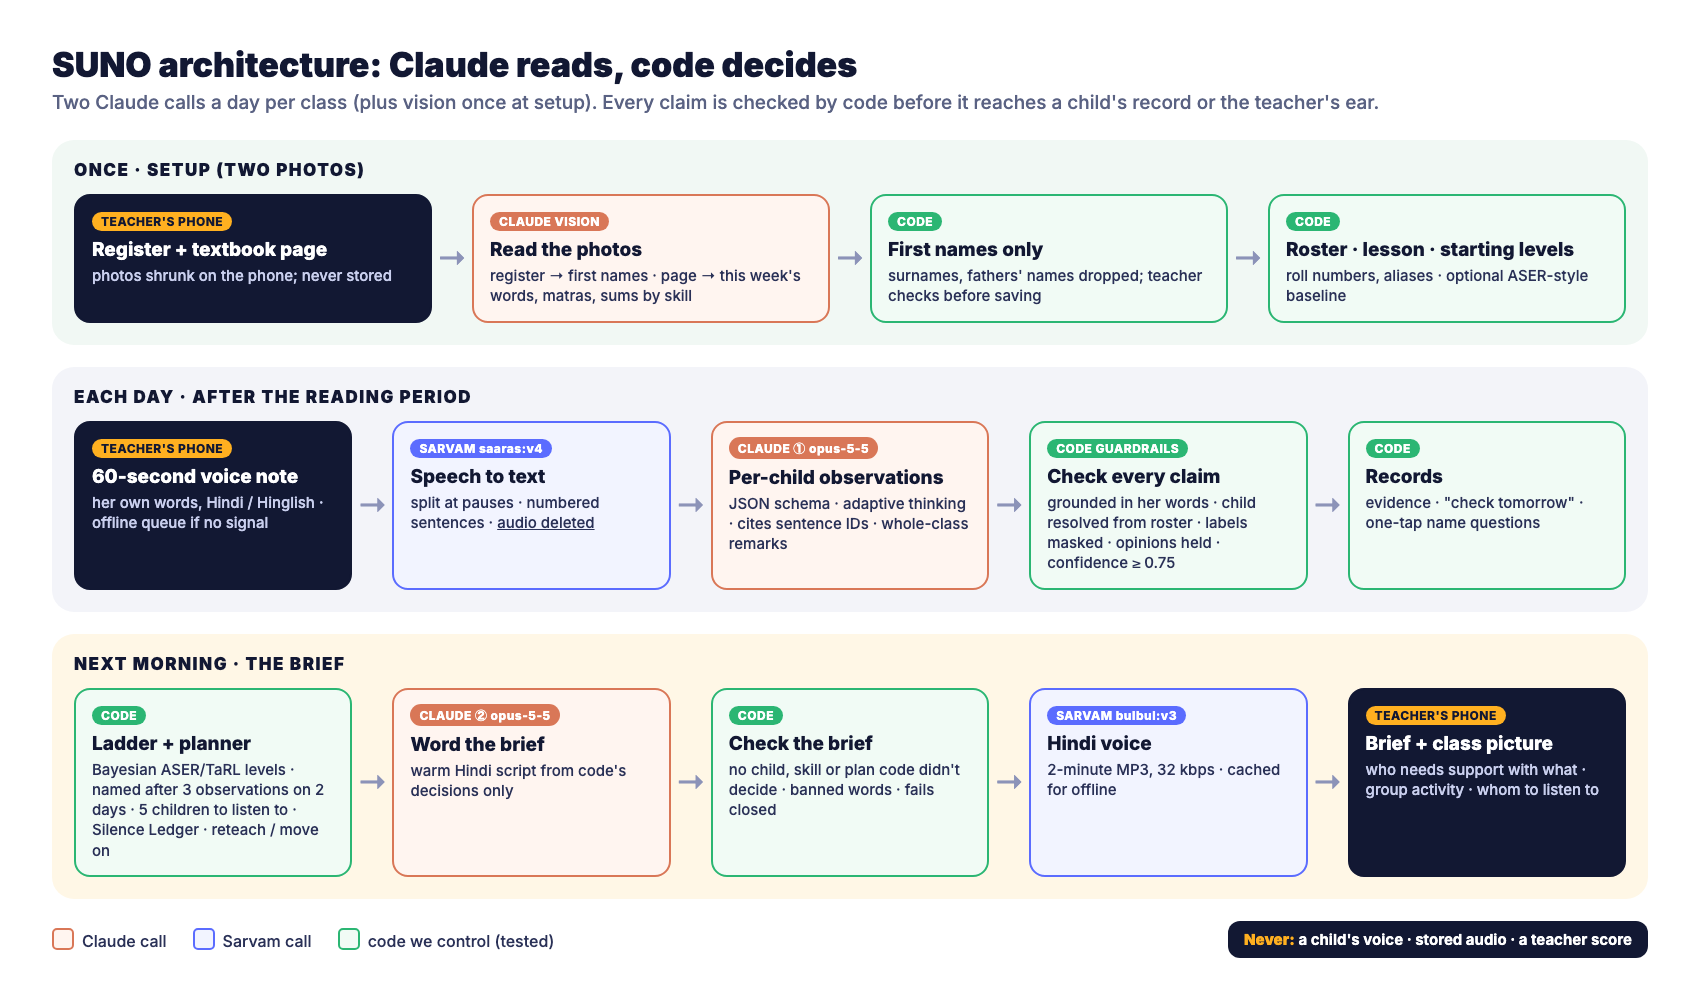
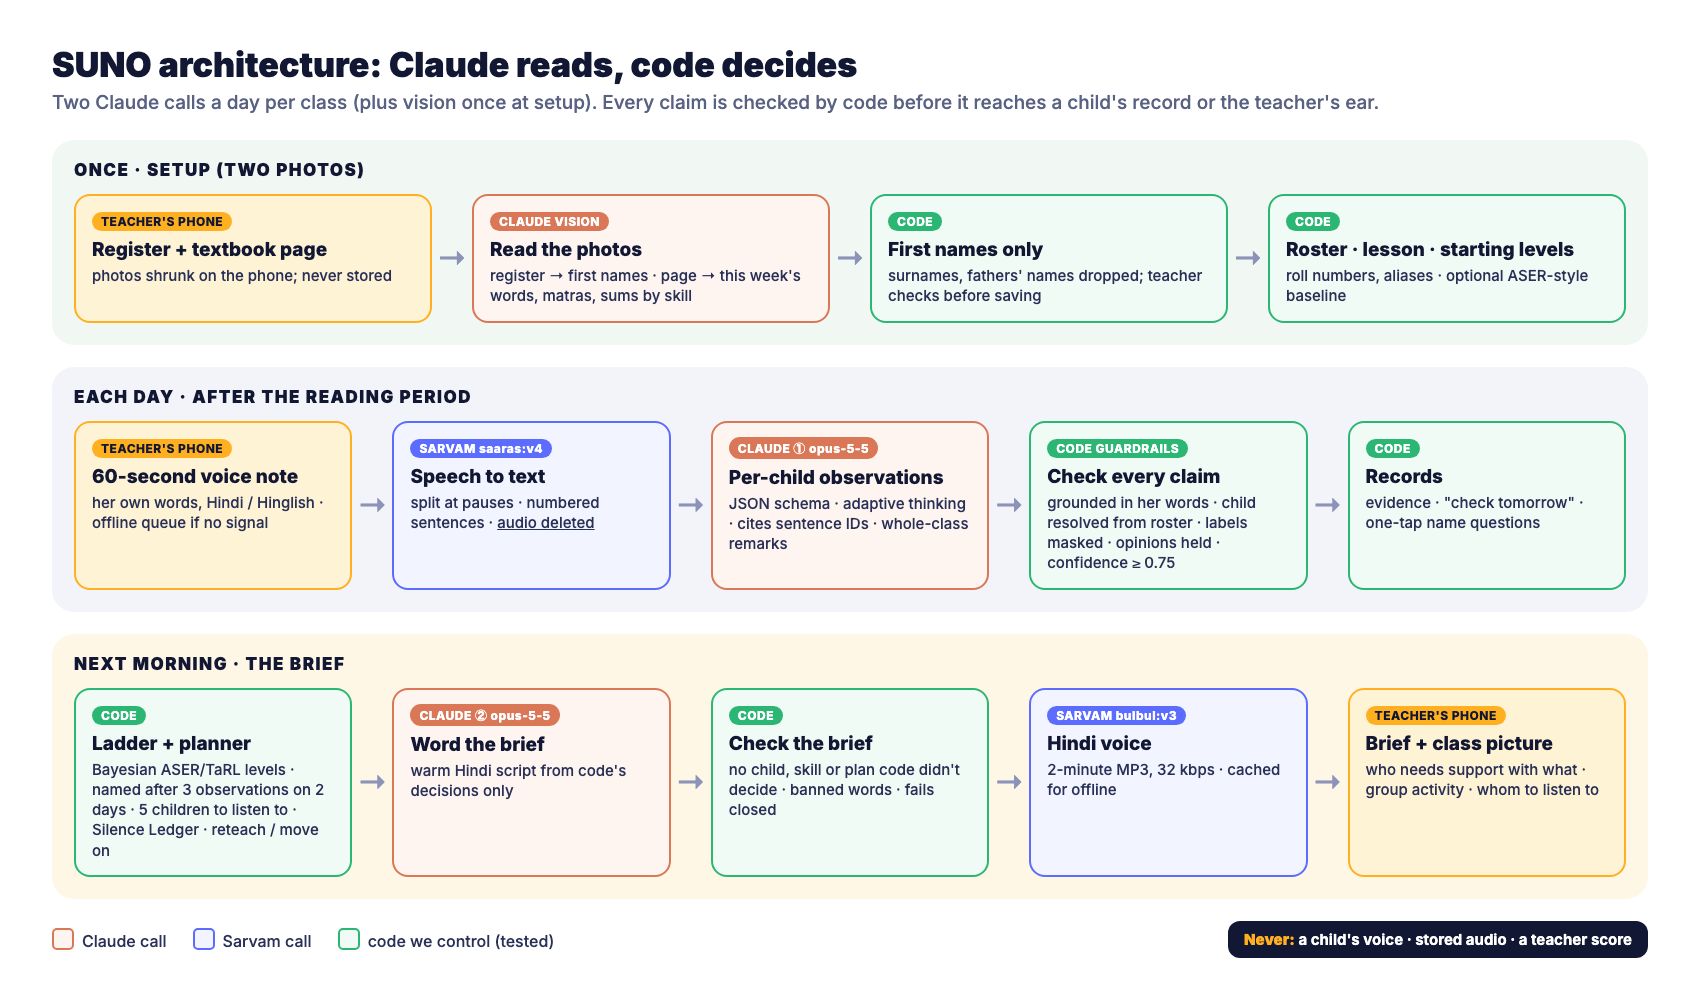
Architecture diagrams: light teacher's-phone boxes instead of black

Changed region(s): [[0.7794, 0.7005, 0.9665, 0.9137], [0.0312, 0.1827, 0.2806, 0.335], [0.0312, 0.4264, 0.2182, 0.6091]]

diff --git a/README.md b/README.md
@@ -94,7 +94,7 @@ flowchart TB
   classDef claude fill:#FFF5F0,stroke:#D97757,stroke-width:2px,color:#121833;
   classDef sarvam fill:#F2F4FF,stroke:#5B6CFF,stroke-width:2px,color:#121833;
   classDef code fill:#F1FBF5,stroke:#2BB673,stroke-width:2px,color:#121833;
-  classDef phone fill:#121833,stroke:#FFB020,stroke-width:2px,color:#ffffff;
+  classDef phone fill:#FFF3D6,stroke:#FFB020,stroke-width:2px,color:#121833;
   class V,C1,C2 claude
   class STT,TTS sarvam
   class R,G,L,BC,DB code
